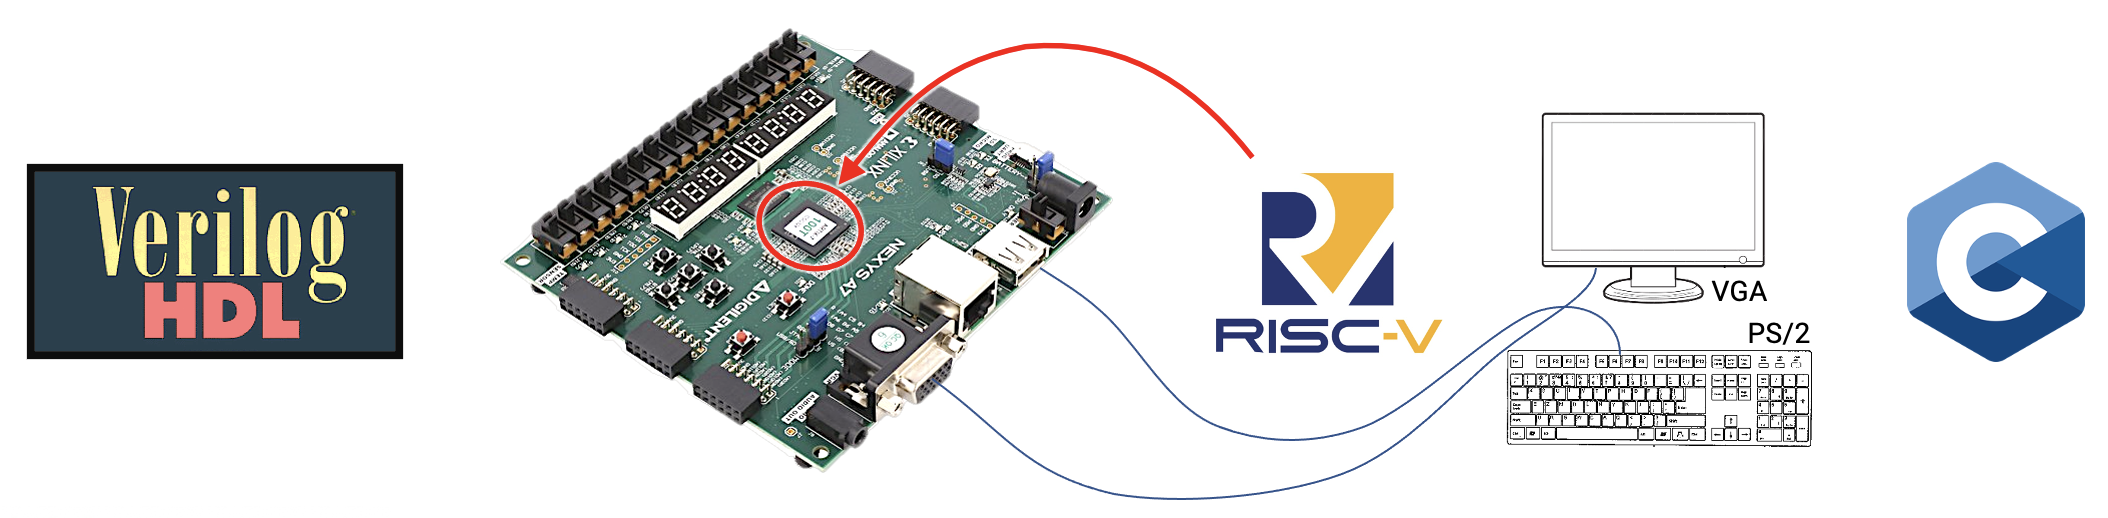
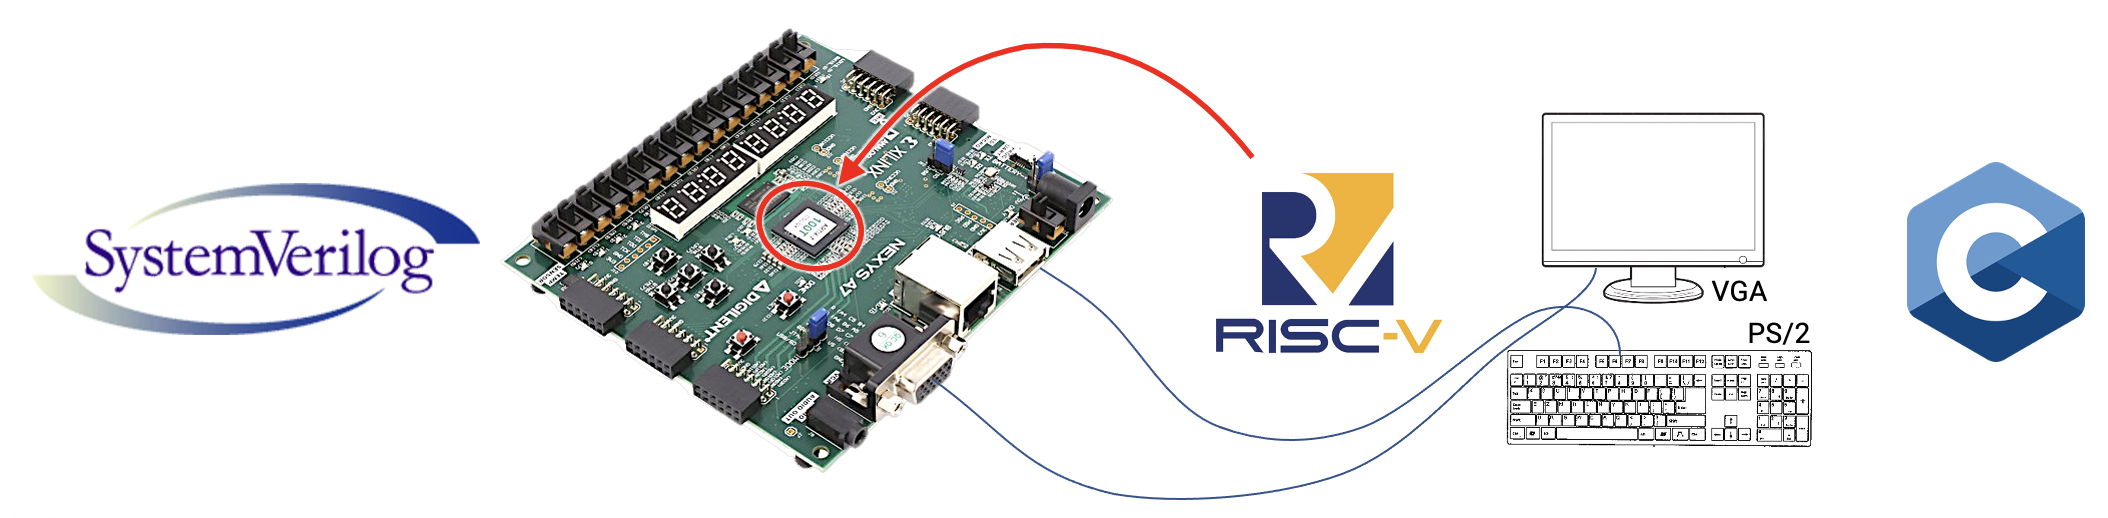
Update README.md

Changed region(s): [[0.0, 0.3089, 0.2467, 0.7104]]

diff --git a/Labs/README.md b/Labs/README.md
@@ -10,9 +10,9 @@
     - [ПИН, ПМ](#пин-пм)
     - [ИВТ](#ивт)
   - [Обзор лабораторных работ](#обзор-лабораторных-работ)
-  - [1. Сумматор. Verilog HDL (Adder)](#1-сумматор-verilog-hdl-adder)
+  - [1. Сумматор. SystemVerilog (Adder)](#1-сумматор-systemverilog-adder)
   - [2. Арифметико-логическое устройство (ALU)](#2-арифметико-логическое-устройство-alu)
-  - [3. Регистровый файл и память (RF)](#3-регистровый-файл-и-память-rf)
+  - [3. Регистровый файл и внешняя память (RF)](#3-регистровый-файл-и-внешняя-память-rf)
   - [4. Простейшее программируемое устройство (PPD)](#4-простейшее-программируемое-устройство-ppd)
   - [5. Основной дешифратор команд (MD)](#5-основной-дешифратор-команд-md)
   - [6. Тракт данных (DP)](#6-тракт-данных-dp)
@@ -77,7 +77,7 @@
 
 ![../.pic/Labs/labs.png](../.pic/Labs/labs.png)
 
-Курс *Архитектур процессорных систем* включает в себя цикл из 13 лабораторных работ (10 основных + 3 вспомогательных), в течение которых используя язык описания аппаратуры **Verilog HDL** на основе **FPGA** (ПЛИС, программируемая логическая интегральная схема), с нуля, последовательно, создается система, под управлением процессора с архитектурой **RISC-V**, управляющего периферийными устройствами и программируемого на языке высокого уровня **C++**.
+Курс *Архитектур процессорных систем* включает в себя цикл из 13 лабораторных работ (10 основных + 3 вспомогательных), в течение которых используя язык описания аппаратуры **SystemVerilog** на основе **FPGA** (ПЛИС, программируемая логическая интегральная схема), с нуля, последовательно, создается система, под управлением процессора с архитектурой **RISC-V**, управляющего периферийными устройствами и программируемого на языке высокого уровня **C++**.
 
 Создаваемая система на ПЛИС состоит из: процессора, памяти, контроллера прерываний и контроллеров периферийных устройств.
 
@@ -85,13 +85,13 @@
 
 Выполнение лабораторных работ это последовательный процесс в результате которого будет освоен ряд различных инструментов и средств. В общих словах это:
 
-**Verilog HDL** - язык описания аппаратуры, благодаря которому схемы не рисуются, а описываются с помощью текста (кода).
+**SystemVerilog** - язык описания аппаратуры, благодаря которому схемы не рисуются, а описываются с помощью текста (кода).
 
-**Testbench** - тестовые окружения, которые представляют собой несинтезируемые (то есть не существующие в реальном физическом мире) блоки, созданные на языке Verilog HDL для автоматического тестирования разрабатываемых устройств и проверки их корректной работоспособности.
+**Testbench** - тестовые окружения, которые представляют собой несинтезируемые (то есть не существующие в реальном физическом мире) блоки, созданные на языке SystemVerilog для автоматического тестирования разрабатываемых устройств и проверки их корректной работоспособности.
 
 **FPGA** - программируемая логическая интегральная схема (ПЛИС), изменяя внутреннюю конфигурацию которой можно создать любые цифровые устройства (в рамках предоставляемых ресурсов).
 
-**Vivado** - система автоматизированного проектирования, которая превращает Verilog-код в конфигурацию и прошивает ей ПЛИС на отладочной плате.
+**Vivado** - система автоматизированного проектирования, которая превращает SystemVerilog-код в конфигурацию и прошивает ей ПЛИС на отладочной плате.
 
 **Архитектура RISC-V** - открытая и свободная система команд и процессорная архитектура на основе концепции RISC для микропроцессоров и микроконтроллеров.
 
@@ -101,32 +101,30 @@
 
 Далее приводится краткое описание и цель каждой отдельной лабораторной работы.
 
-## 1. Сумматор. Verilog HDL (Adder)
+## 1. Сумматор. SystemVerilog (Adder)
 
 ![../.pic/Labs/l1.png](../.pic/Labs/l1.png)
-На первой лабораторной работе изучаются базовые конструкции языка описания аппаратуры Verilog HDL, с помощью которого разрабатывается цифровой сумматор из примитивных логических вентилей, который, в последствии, конфигурируется в ПЛИС и его работа проверяется на отладочном стенде.
+На первой лабораторной работе изучаются базовые конструкции языка описания аппаратуры SystemVerilog, с помощью которого разрабатывается цифровой сумматор из примитивных логических вентилей, который, в последствии, конфигурируется в ПЛИС и его работа проверяется на отладочном стенде.
 
 ## 2. Арифметико-логическое устройство (ALU)
 
 ![../.pic/Labs/l2.png](../.pic/Labs/l2.png)
-На второй лабораторной изучаются новые конструкции языка Verilog HDL, на основе которых разрабатывается блок арифметико-логического устройства (АЛУ). АЛУ - это устройство, на входы которого подаются операнды, над которыми нужно выполнить некоторую операцию (сложение, вычитание и тому подобное) и код операции, которую нужно выполнить, а на выходе появляется результат этой операции. Проще говоря АЛУ - это "калькулятор" процессора.
+На второй лабораторной изучаются новые конструкции языка SystemVerilog, на основе которых разрабатывается блок арифметико-логического устройства (АЛУ). АЛУ — это устройство, на входы которого подаются операнды, над которыми нужно выполнить некоторую операцию (сложение, вычитание и тому подобное) и код операции, которую нужно выполнить, а на выходе появляется результат этой операции. Проще говоря АЛУ - это "калькулятор" процессора.
 
-Для проверки правильной работоспособности АЛУ в конце лабораторной работы, на языке Verilog HDL, пишется testbench (тестовое окружение), которое автоматически проверяет корректность его реализации.
-
-## 3. Регистровый файл и память (RF)
+## 3. Регистровый файл и внешняя память (RF)
 
 ![../.pic/Labs/l3.png](../.pic/Labs/l3.png)
-На третьей лабораторной разрабатываются элементы памяти для будущего процессора: память команд, память данных и регистровый файл. В памяти команд будет храниться программа, которую будет выполнять процессор. В памяти данных хранятся данные, которые будут обрабатываться процессором. Регистровый файл - это маленькая память, тоже с данными, которые могут быть поданы непосредственно на АЛУ. Особенность RISC-архитектур в том, что данные перед обработкой необходимо перенести из памяти данных в регистровый файл, только после этого к ним можно применять различные операции.
+На третьей лабораторной разрабатываются элементы памяти для будущего процессора: память команд, память данных и регистровый файл. В памяти команд будет храниться программа, которую будет выполнять процессор. В памяти данных хранятся данные, которые будут обрабатываться процессором. Регистровый файл — это маленькая память, тоже с данными, которые могут быть поданы непосредственно на АЛУ. Особенность RISC-архитектур в том, что данные перед обработкой необходимо перенести из памяти данных в регистровый файл, только после этого к ним можно применять различные операции.
 
 ## 4. Простейшее программируемое устройство (PPD)
 
-![../.pic/Labs/l4.png](../.pic/Labs/l4.png)
+![../.pic/Labs/lab_04_cybercobra/ppd_6.drawio.png](../.pic/Labs/lab_04_cybercobra/ppd_6.drawio.png)
 Эта работа – небольшое отступление от реализации процессора с архитектурой RISC-V и нужна для более глубокого понимания принципов работы и организации программируемых устройств. В рамках четвертой лабораторной работы из реализованных блоков собирается примитивное программируемое устройство, для которого пишется программа в машинных кодах.
 
 ## 5. Основной дешифратор команд (MD)
 
 ![../.pic/Labs/l5.png](../.pic/Labs/l5.png)
-Пятая лабораторная посвящена разработке устройства управления – основному дешифратору команд. Функция основного дешифратора - получать на вход коды выполняемых операций и преобразовывать их в управляющие сигналы для всех блоков процессора (АЛУ, память, регистровый файл, мультиплексоры). Работа требует внимательности в реализации, а ее результат проверяется заранее подготовленными автоматическими тестами.
+Пятая лабораторная посвящена разработке устройства управления – основному дешифратору команд. Функция основного дешифратора — получать на вход коды выполняемых операций и преобразовывать их в управляющие сигналы для всех блоков процессора (АЛУ, память, регистровый файл, мультиплексоры). Работа требует внимательности в реализации, а ее результат проверяется заранее подготовленными автоматическими тестами.
 
 ## 6. Тракт данных (DP)
 
